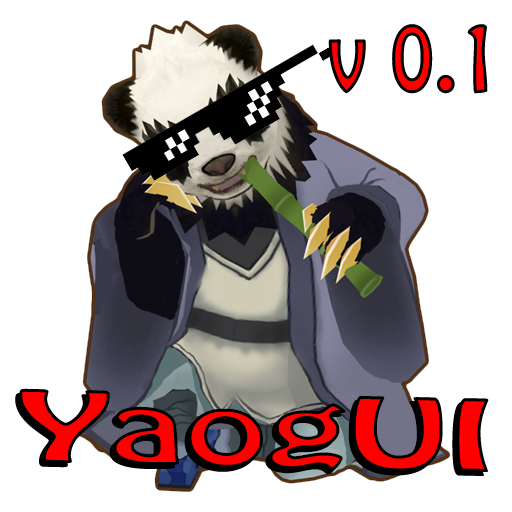
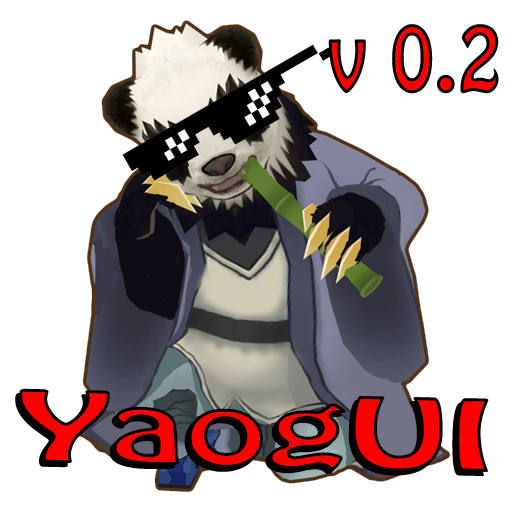
Version bump and improved readme

Changed region(s): [[0.875, 0.0312, 1.0, 0.1875]]

diff --git a/README.md b/README.md
@@ -4,6 +4,14 @@ A UI mod for Amazing Cultivation Simulator. Currently in very early stages of de
 
 This is mostly intended for the english version of the game, but most of the features _should_ work in the chinese version too.
 
+# Features
+
+ - Ability to search when crafting items. The talisman list also has a new look
+ - Ability to search user items when trading
+   - Category bookmarks have also been added to make it easier to jump between item categories
+ - When a vessel dies, it name changes to '[Owner]'s Vessel' to make it easier to identify who owns it
+ - 'X : Hurt' and 'X : injury deteriorating' messages get cleaned if the affected pawn get healed
+   - Experimental - Any feedback appreciated
 
 ### Development
 
@@ -20,7 +28,7 @@ This is a non-exhaustive list that I plan to work on. I can't give any promises 
  - [X] Automatically remove 'X is hurt' message if the target is no longer hurt
  - [ ] Ability to save/favorite talismans
 	-  Need to figure out how saves work
- - [ ] Search in trade window
+ - [X] Search in trade window
  - [ ] Pin common trade items to top of trade window (like Spirit Stones/Crystals etc)
  - [ ] Improve the inner disciples spell list
  - [ ] Make features optional through the UI
